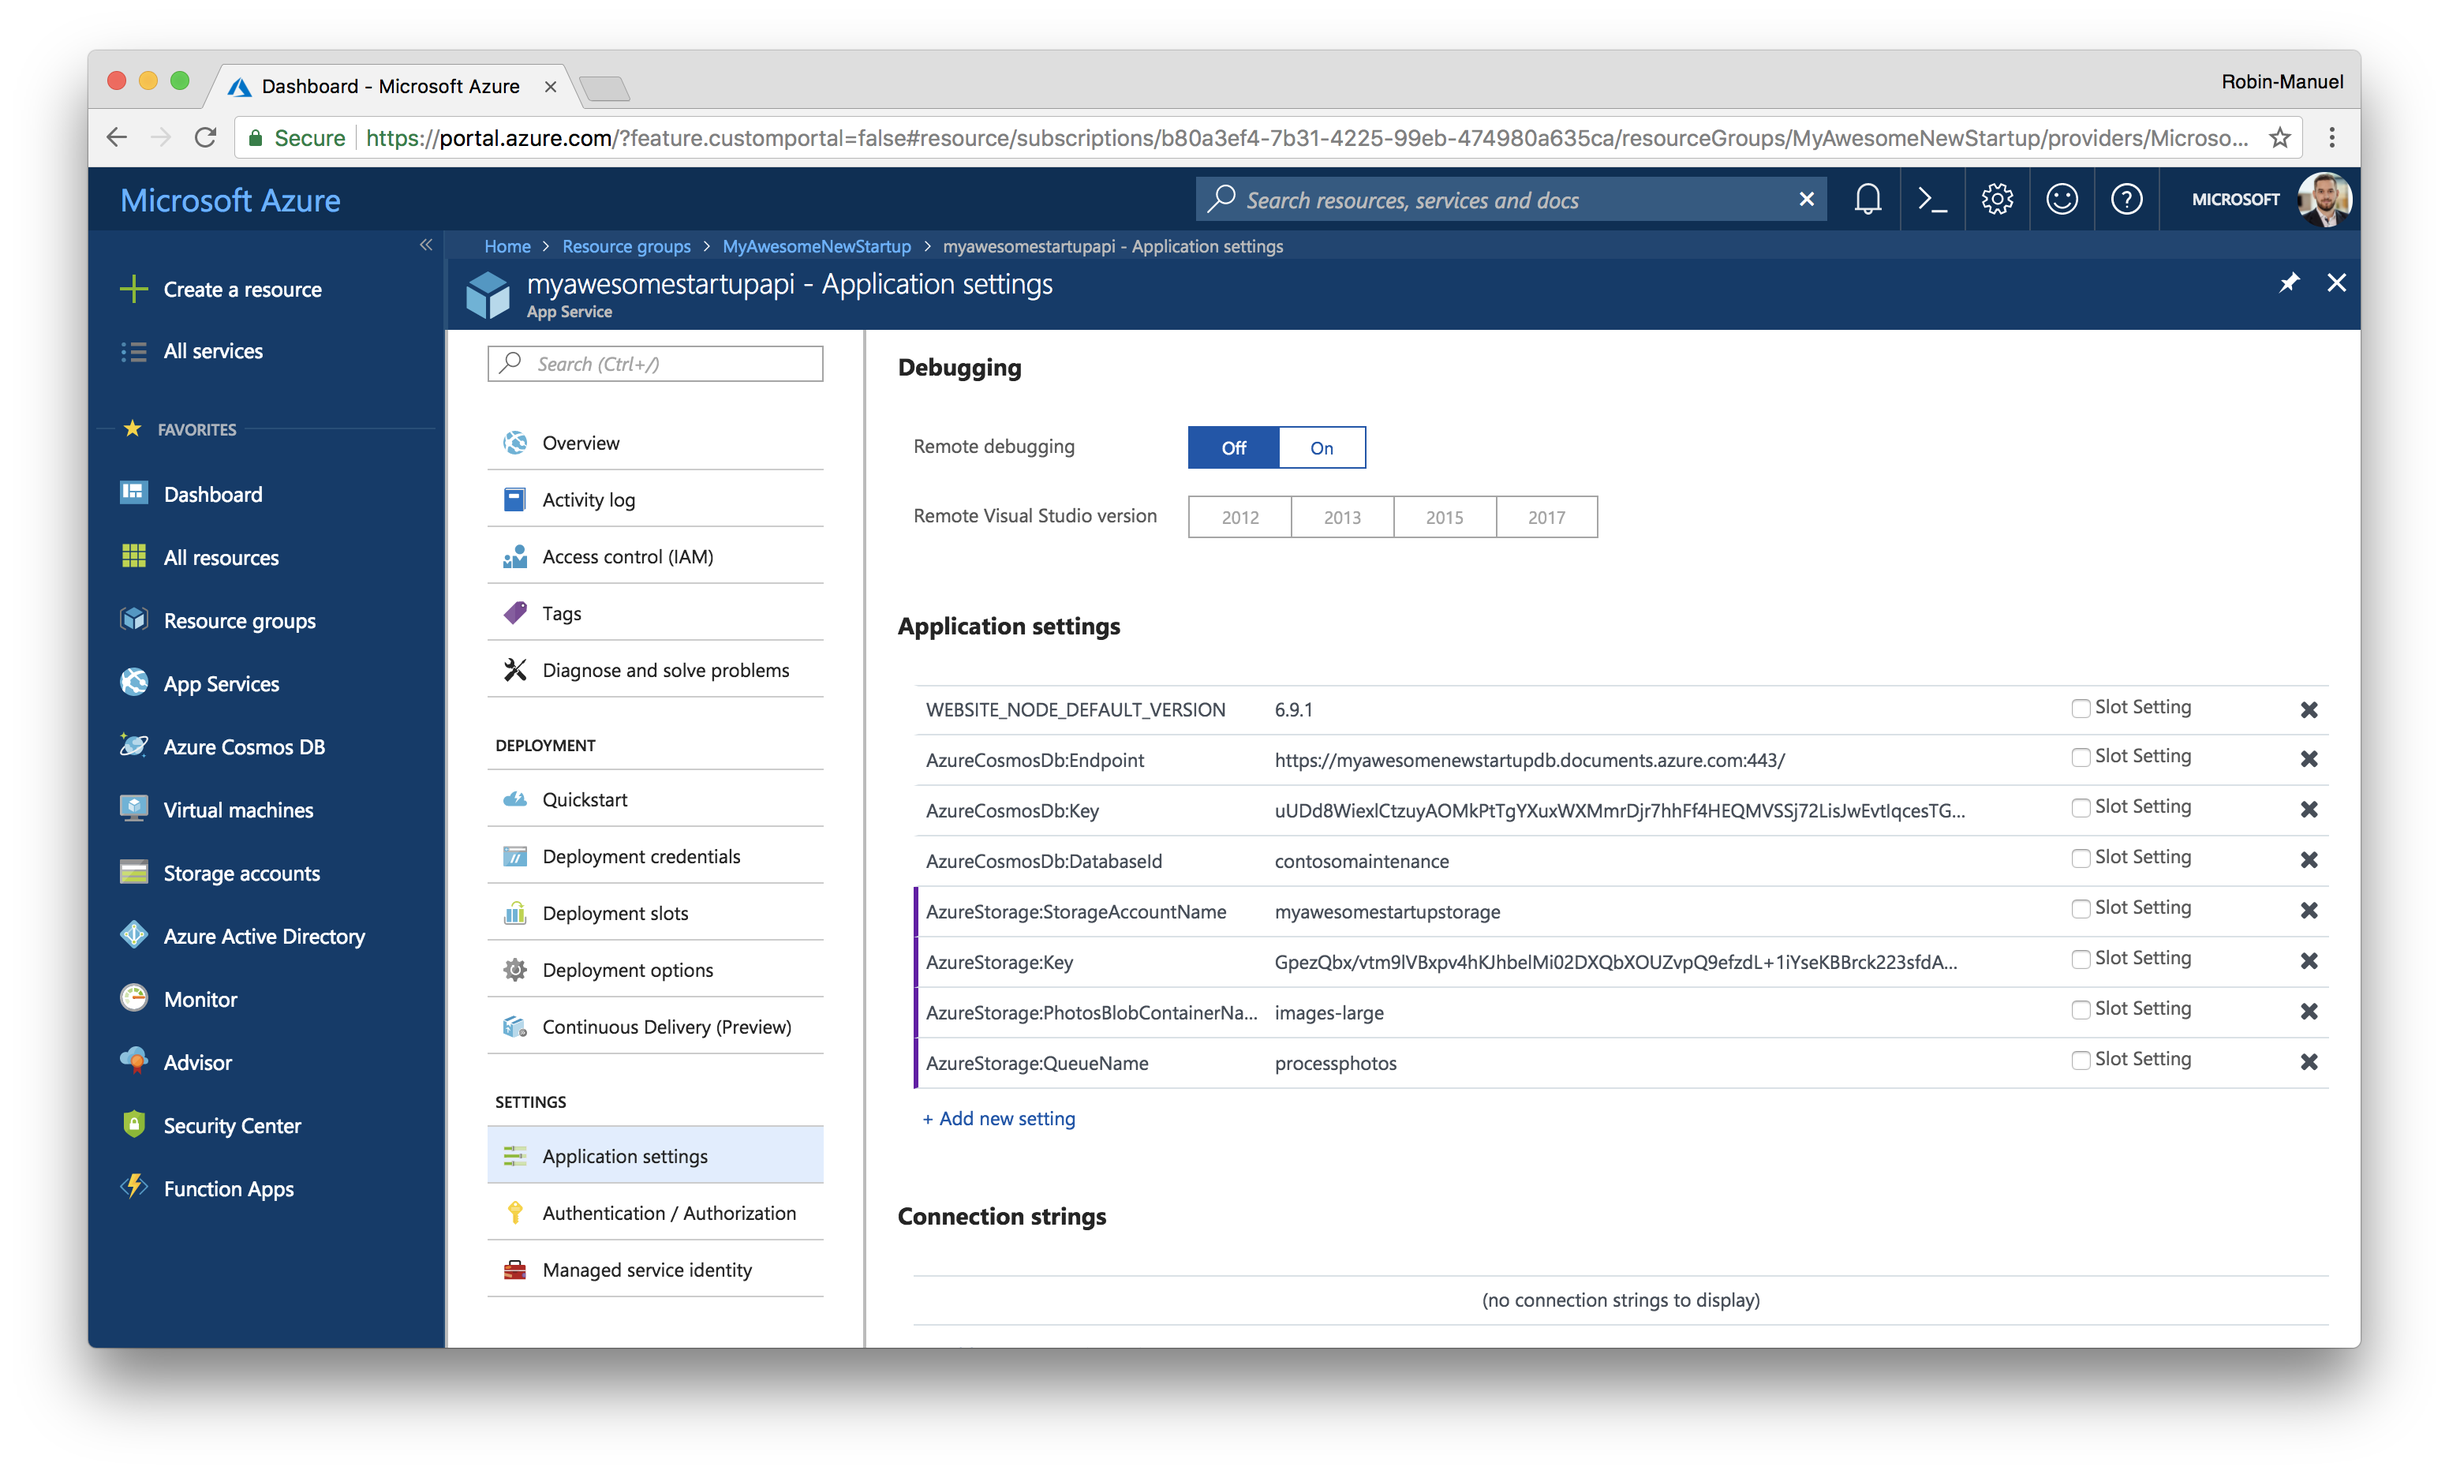
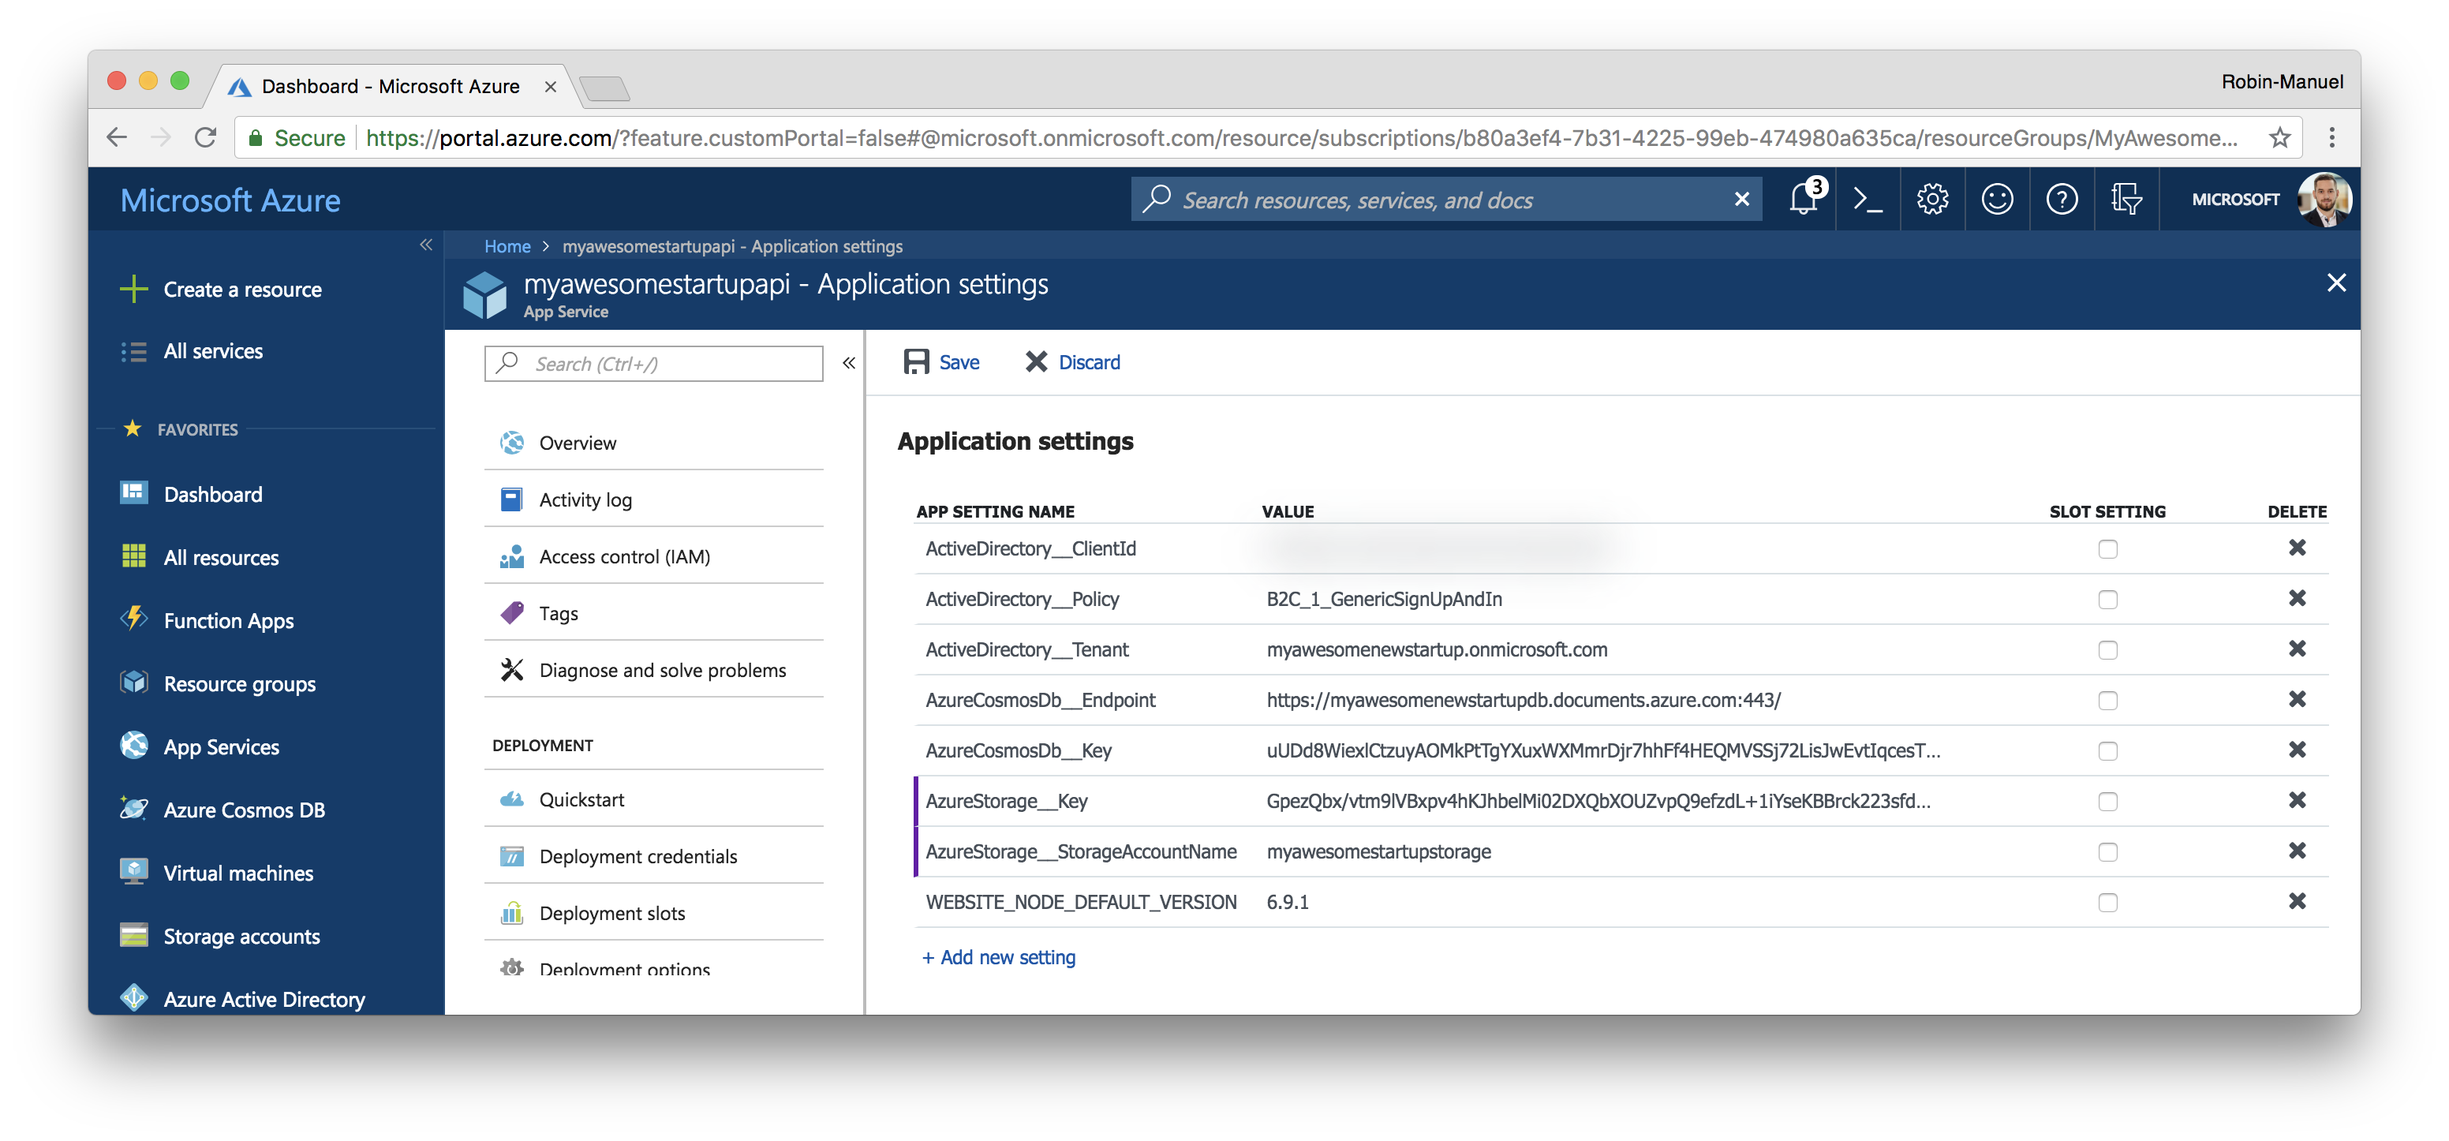
Replaced Application Settings with Docker freindly double underscore format

diff --git a/Walkthrough Guide/04 Data Storage/README.md b/Walkthrough Guide/04 Data Storage/README.md
@@ -67,7 +67,7 @@ As you might have seen, the connection details to the Cosmos DB are not hard-cod
 
 [View in project](/Backend/Monolithic/appsettings.json#L21-L24)
 
-As these settings are empty, let's set them in the Web Api's environment variables!
+As these settings are empty, let's set them in the Web API's environment variables!
 
 #### 1.3.2 Add Connection Information to Environment Variables
 
@@ -75,10 +75,10 @@ Navigate to the Web API App Service in the Azure Portal and open the ***Applicat
 
 ![Add App Service App Settings](Assets/AddAppServiceAppSettings.png)
 
-Add the settings in the format `Settings:Key` and take the values from the ***Keys*** section of your Cosmos DB instance. Hit ***Save*** at the top of the page once you are set.
+Add the settings in the format `Settings__Key` (two underscores) and take the values from the ***Keys*** section of your Cosmos DB instance. Hit ***Save*** at the top of the page once you are set.
 
-- **`AzureCosmosDb:Endpoint`:** Uri of the Cosmos DB instance
-- **`AzureCosmosDb:Key`:** Primary Key of the Cosmos DB instance
+- **`AzureCosmosDb__Endpoint`:** Uri of the Cosmos DB instance
+- **`AzureCosmosDb__Key`:** Primary Key of the Cosmos DB instance
 
 ### 1.4 Generate data
 
@@ -224,12 +224,10 @@ These environment variables can also be set in the ***Application Settings*** se
 
 ![Add Azure Storage to Settings](Assets/AddStorageAppSettings.png)
 
-Add the settings in the format `Settings:Key` and take the values from your Storage Account's ***Access Keys*** section.
+Add the settings in the format `Settings__Key` (two underscores) and take the values from your Storage Account's ***Access Keys*** section.
 
-- **`AzureStorage:StorageAccountName`:** Storage Account name (e.g. myawesomestartupstorage)
-- **`AzureStorage:Key`:** Key 1 key from the ***Access Keys*** section
-- **`AzureStorage:PhotosBlobContainerName`:** images-large
-- **`AzureStorage:QueueName`:** processphotos
+- **`AzureStorage__StorageAccountName`:** Storage Account name (e.g. myawesomestartupstorage)
+- **`AzureStorage__Key`:** Key 1 key from the ***Access Keys*** section
 
 Once you click the ***Save*** button at the top of the page, the backend will choose this Storage Account and the  `images-large` blob container to upload photos.
 
